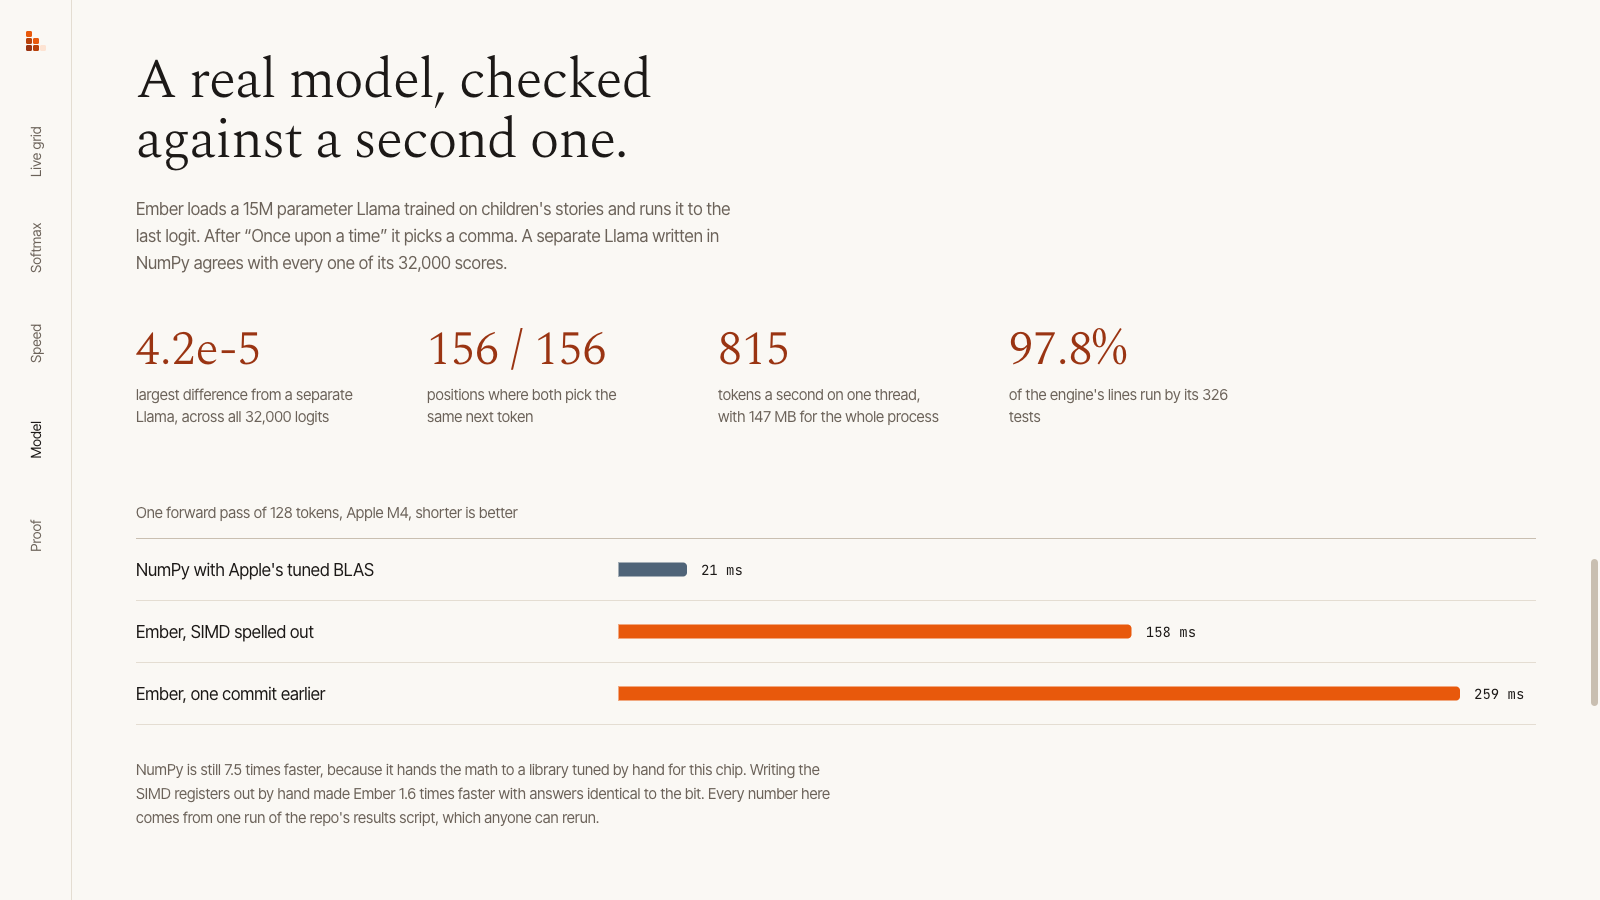
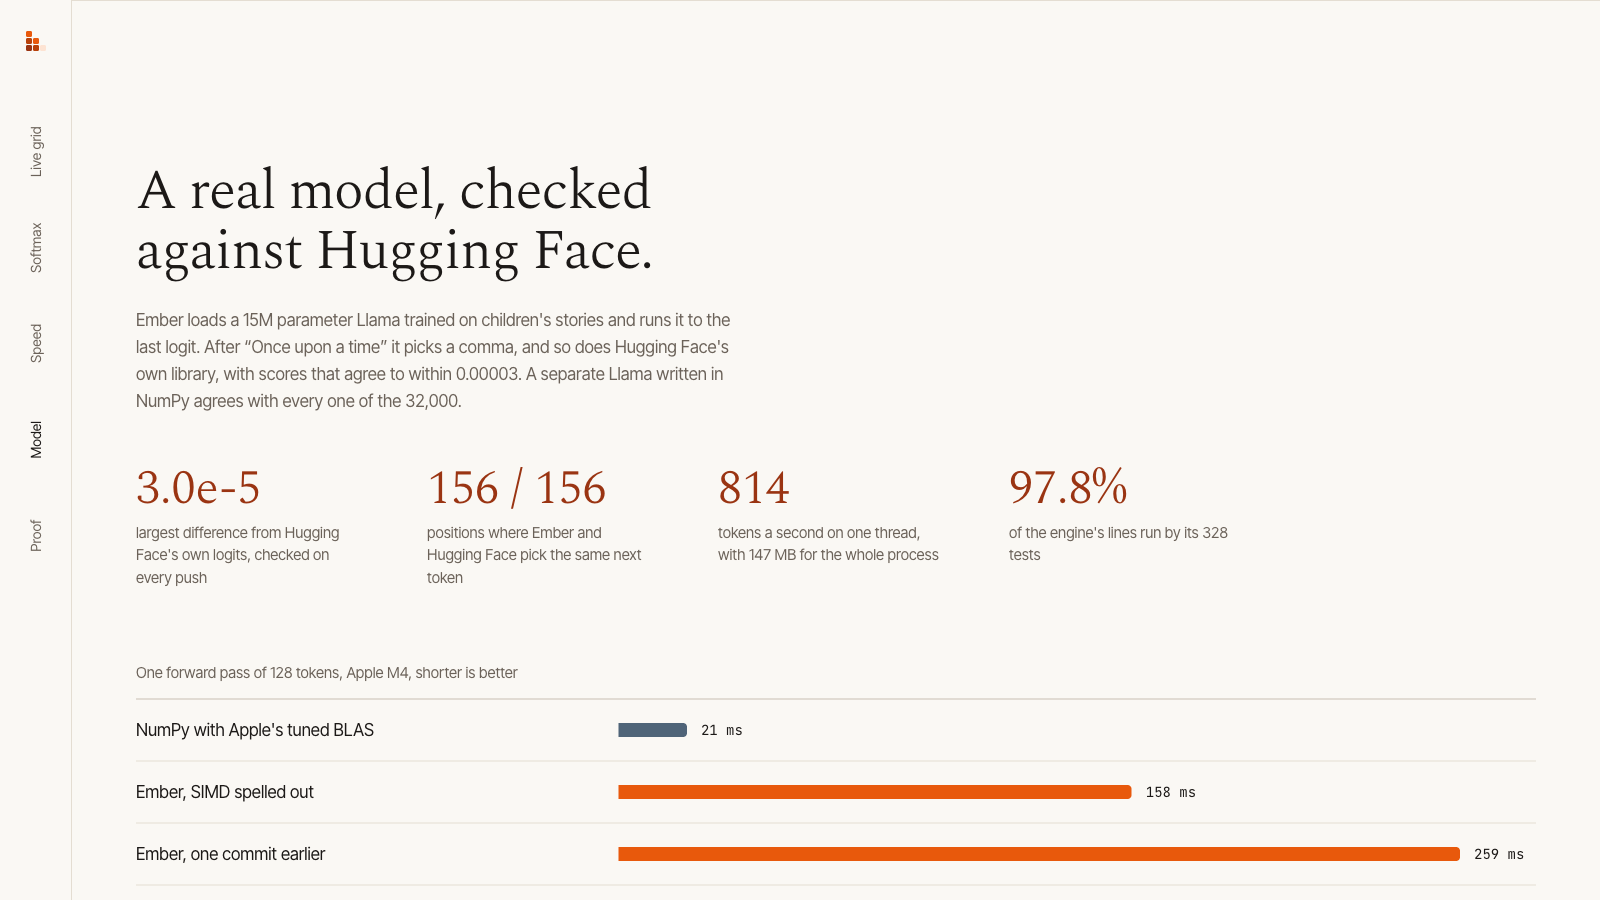
docs(readme): retake the model screenshot with the Hugging Face match

diff --git a/README.md b/README.md
@@ -25,7 +25,7 @@ Every number here comes from one run of [`scripts/results.sh`](scripts/results.s
 | Bad input cannot crash it | Every truncation and thousands of corrupted headers fail cleanly under AddressSanitizer, and libFuzzer runs on every push | `tests/loader_corruption_test.cpp`, `fuzz/`, CI |
 | The tests reach the code | 328 tests, covering 97.8% of lines and 86.0% of branches in `src/` | `scripts/coverage.sh` |
 
-![Model section of the site: logits within 4.2e-5 of a separate Llama, 815 tokens a second, and a bar chart where NumPy runs 128 tokens in 21 ms against Ember's 158 ms](docs/screenshots/model.png)
+![Model section of the site: logits within 3.0e-5 of Hugging Face's, the same next token at 156 of 156 positions, 814 tokens a second, and a bar chart where NumPy runs 128 tokens in 21 ms against Ember's 158 ms](docs/screenshots/model.png)
 
 The gap to NumPy is the to-do list: hand-written NEON kernels, more than one thread, and 8-bit weights, each with a before and after from the same script.
 
